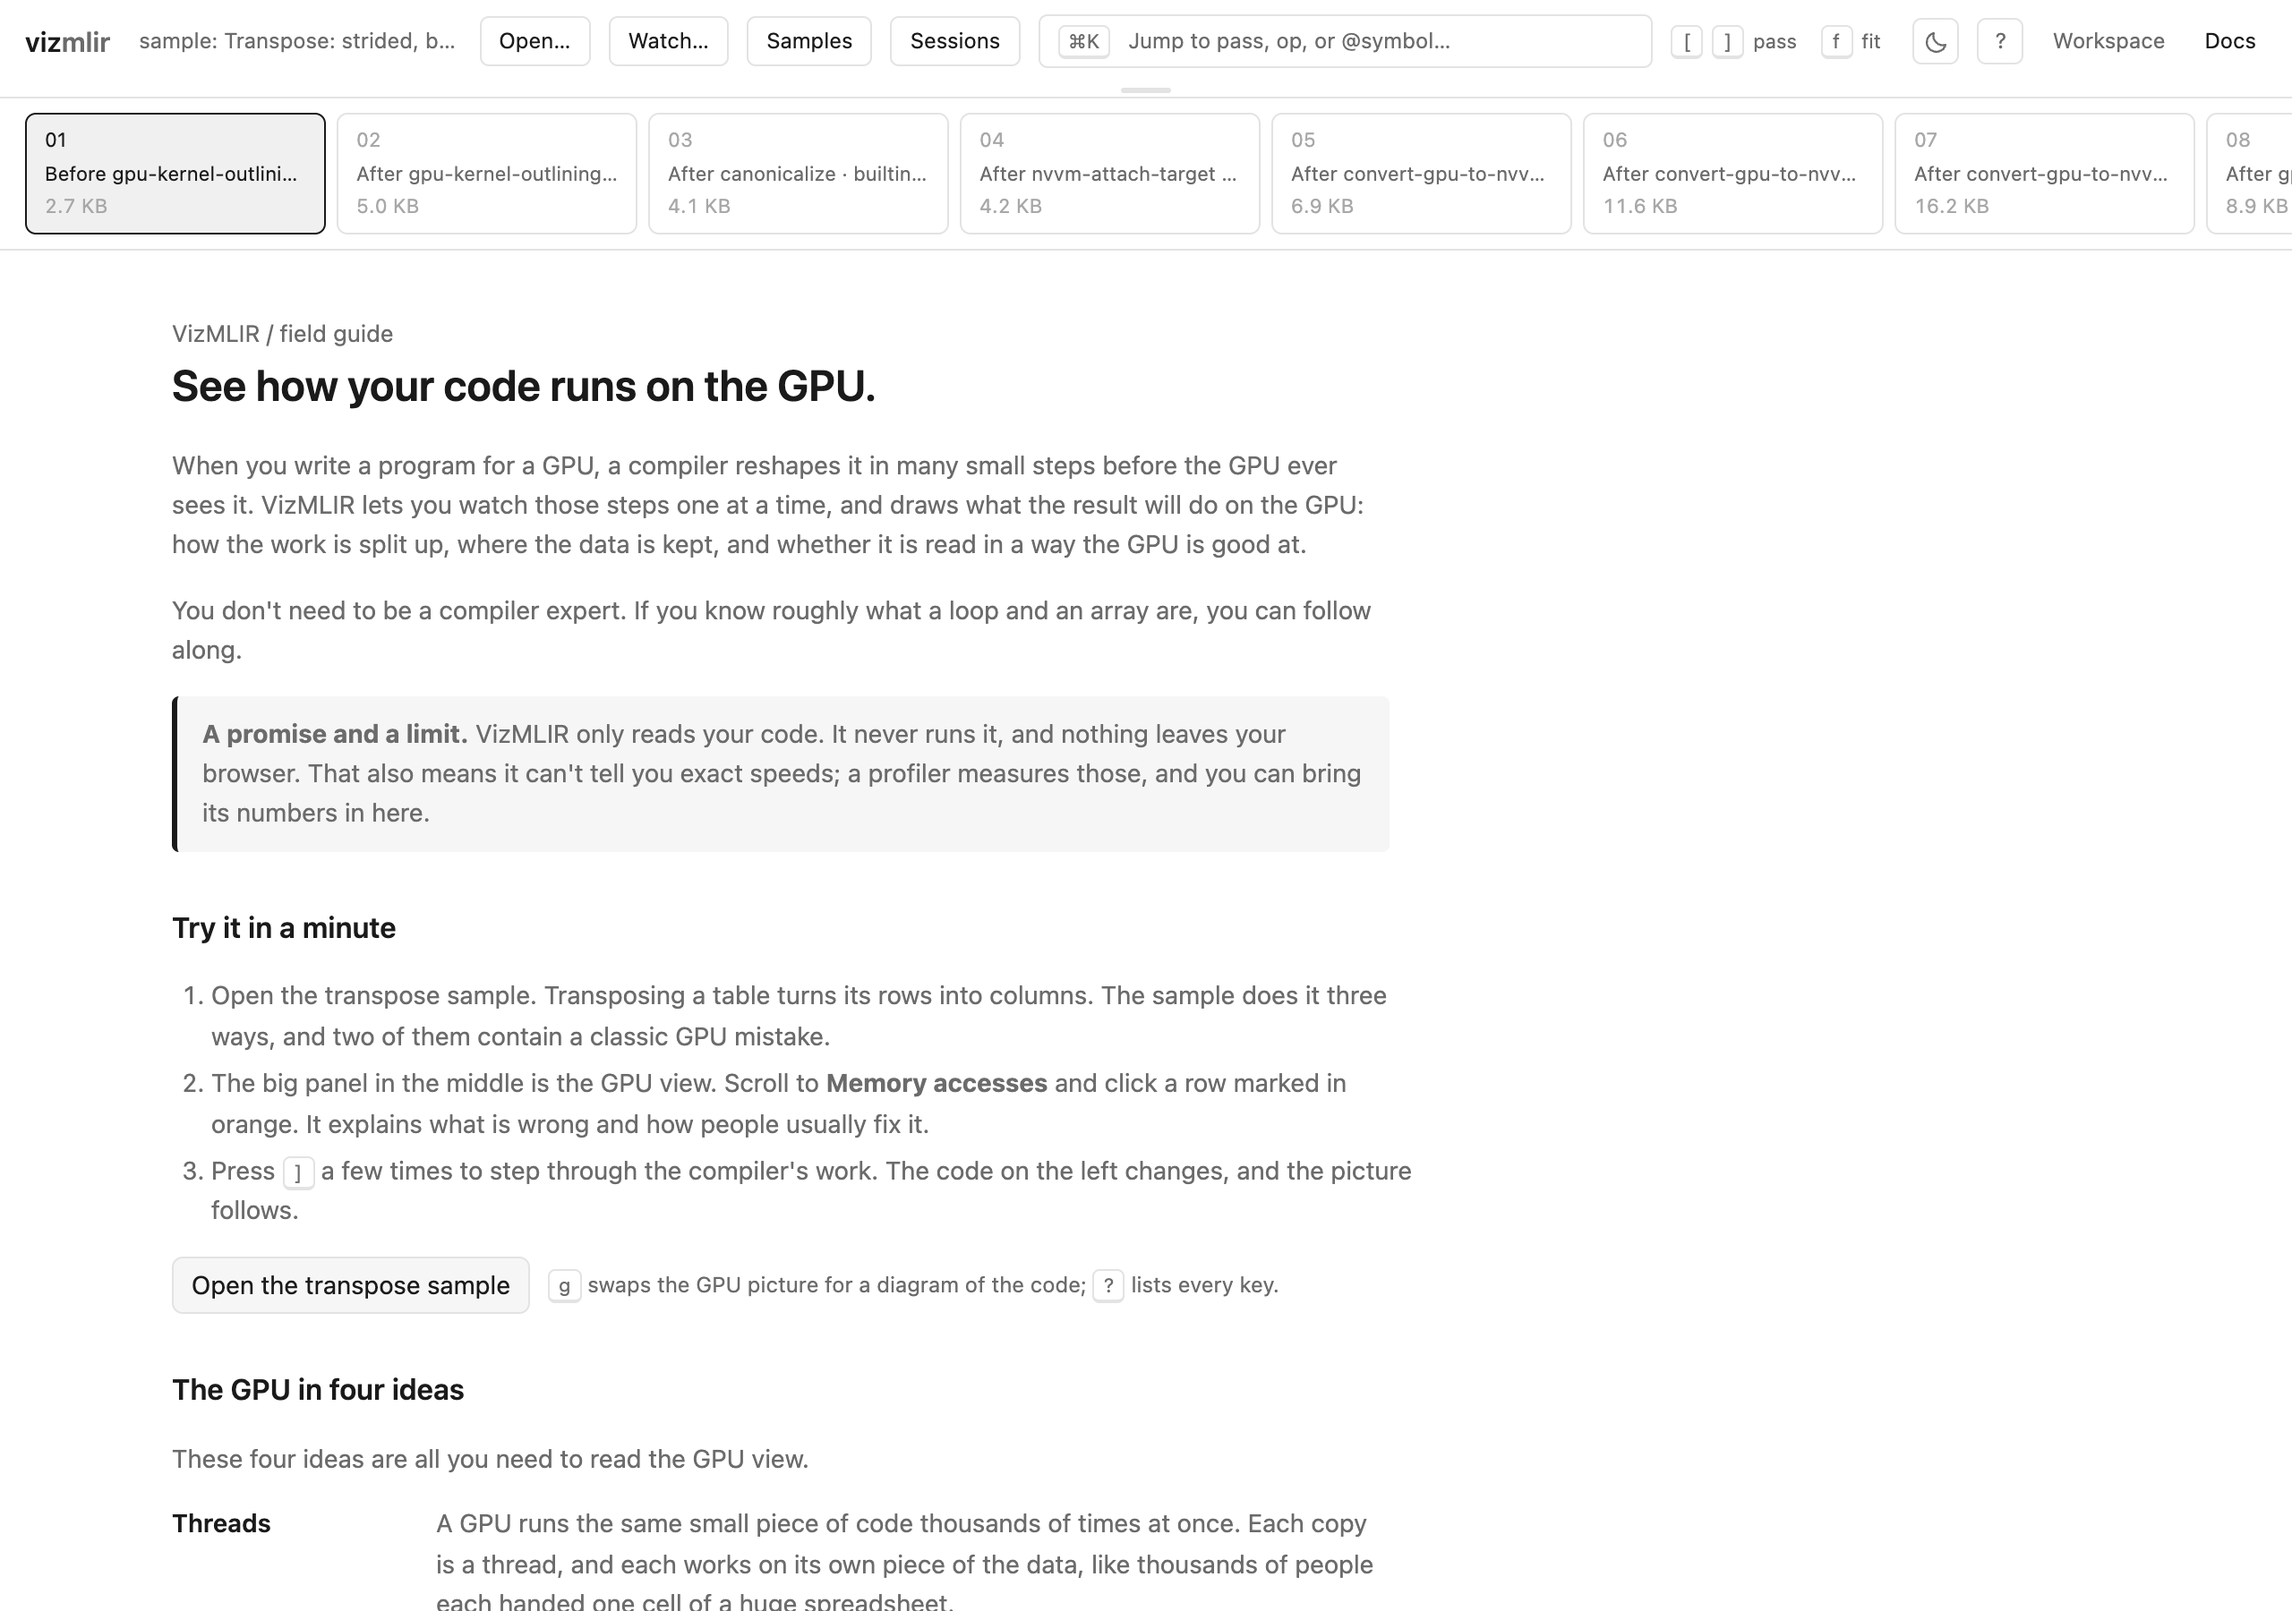
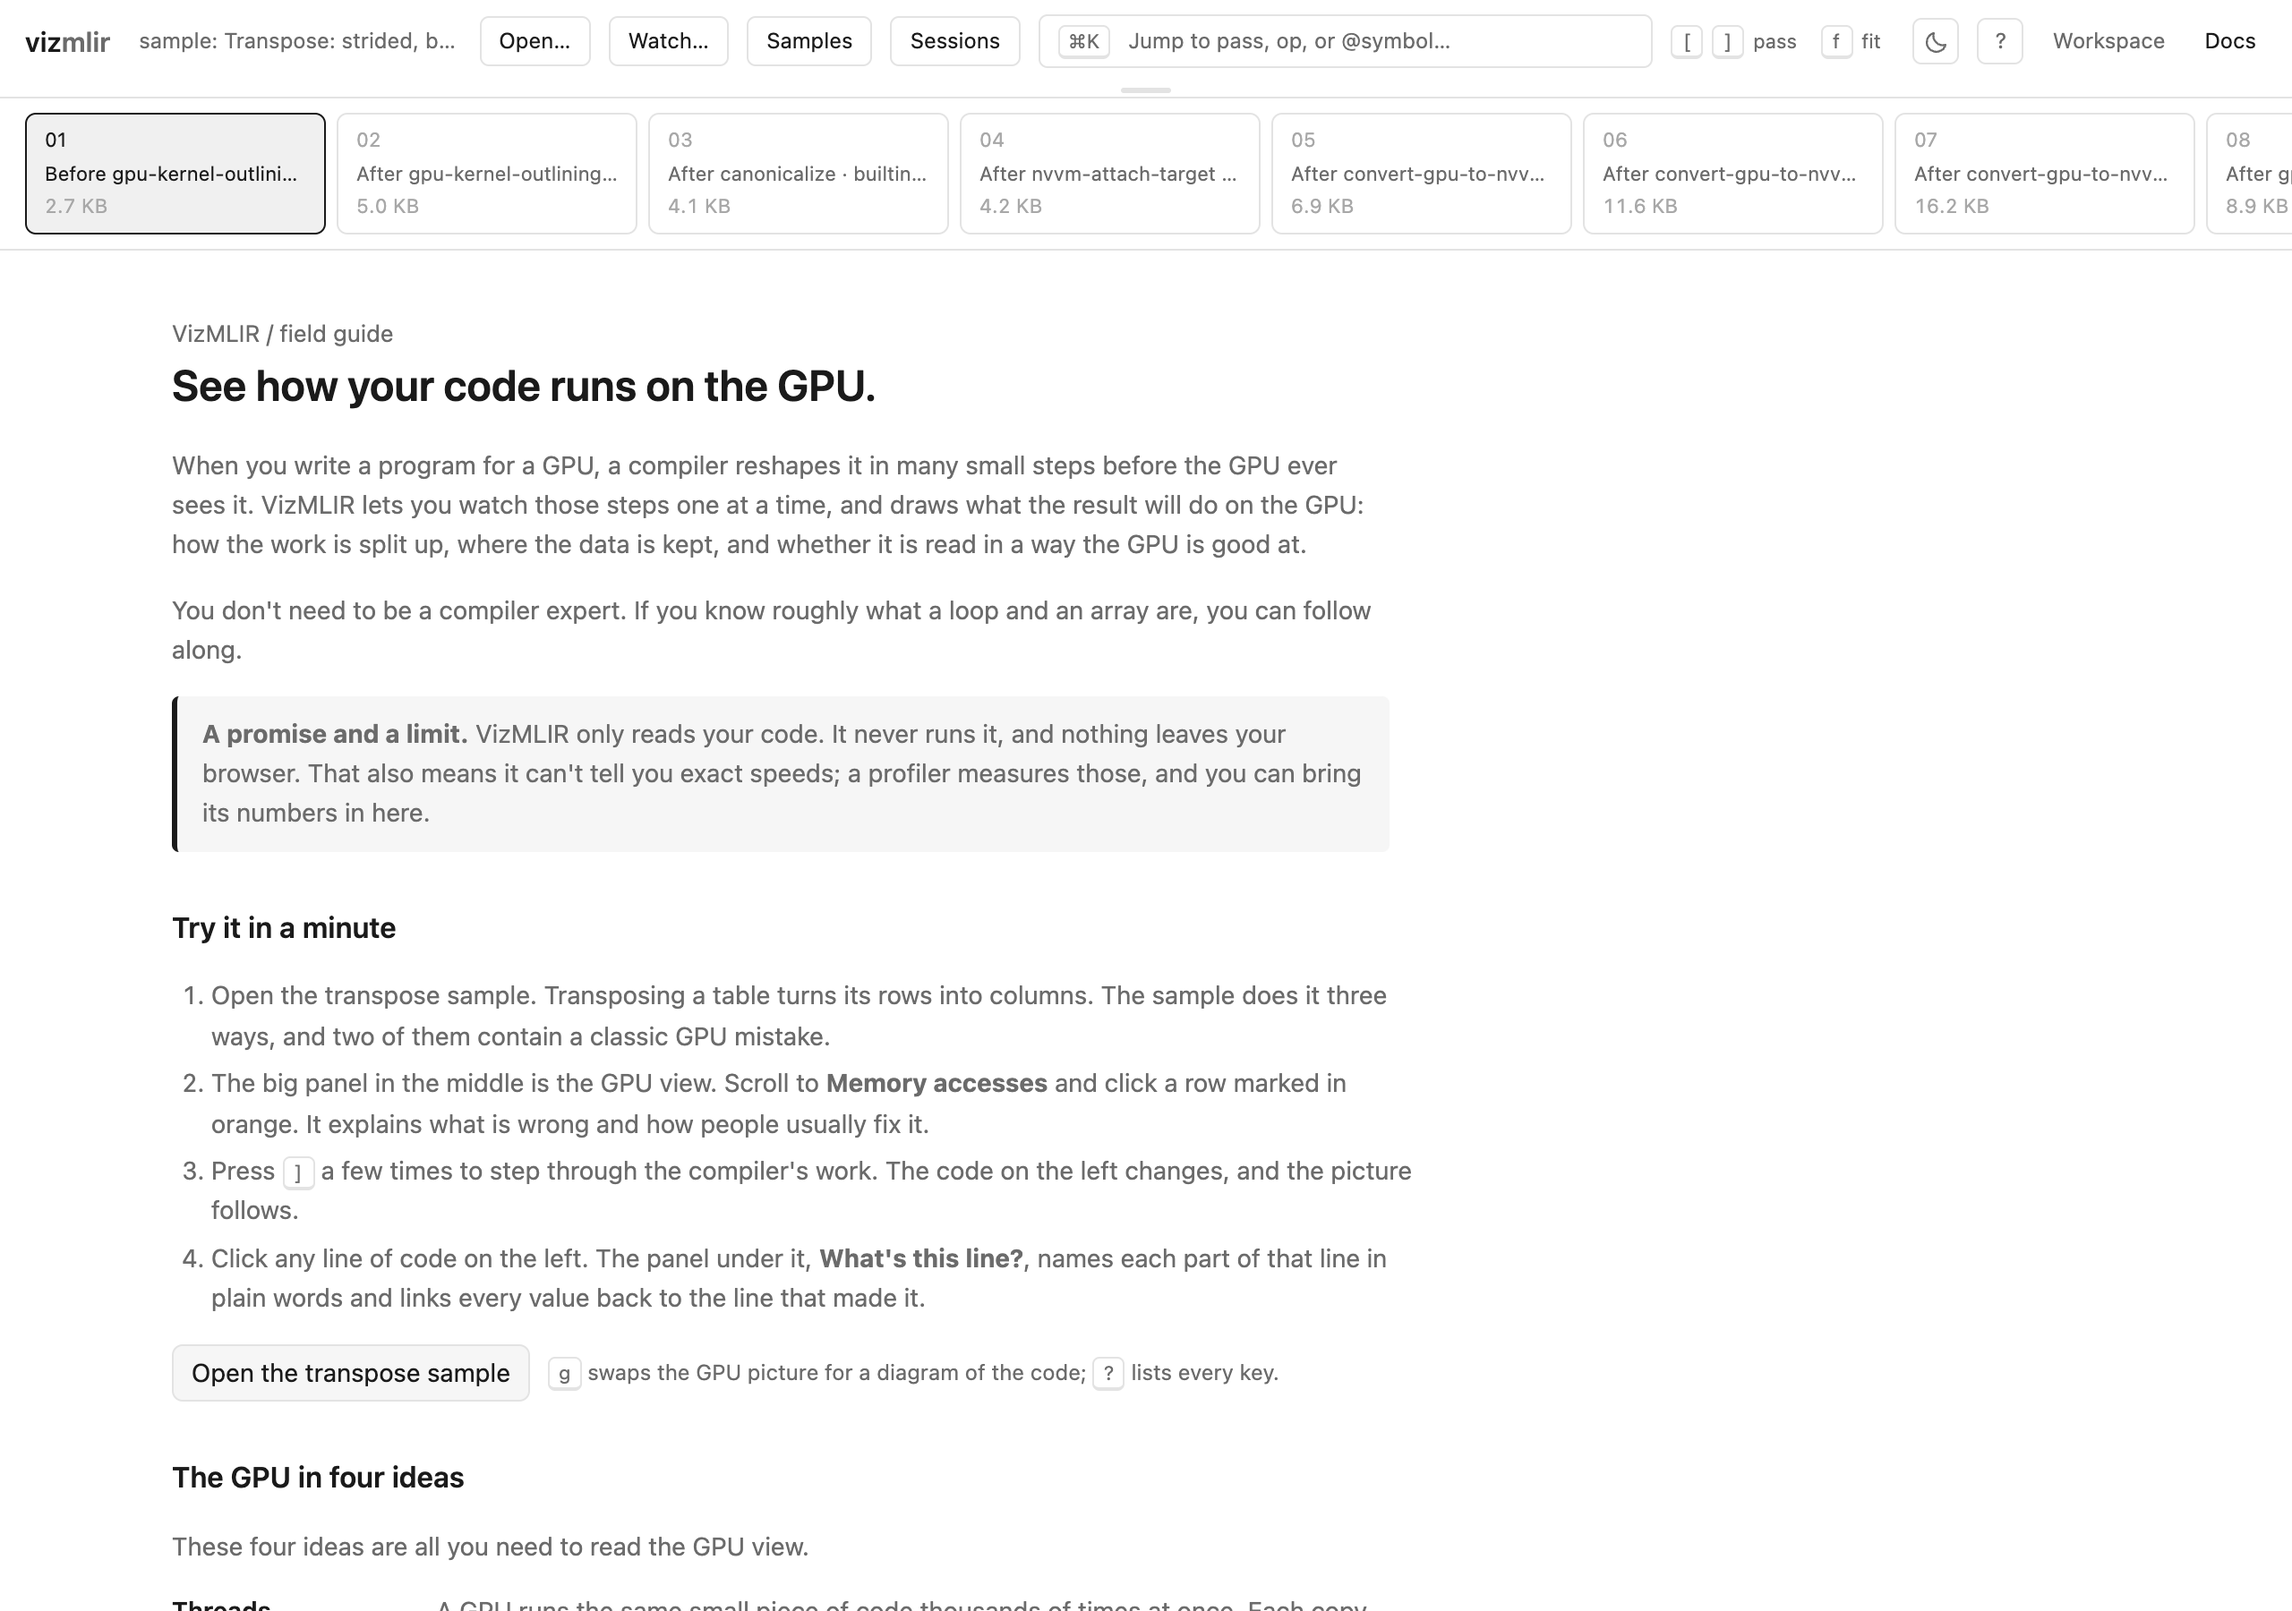
Retake README screenshots with the line explainer
The workspace shot now shows the transpose sample's strided write in the
GPU view with "What's this line?" explaining the store under the code,
and the docs shot shows the four-step tour. The README describes the
workspace shot in a caption.

diff --git a/README.md b/README.md
@@ -8,7 +8,9 @@ When you write a program for a GPU, a compiler reshapes it in many small steps b
 
 **[Try VizMLIR live](https://joepothiboot.github.io/vizmlir/)**: it opens on a small example with two classic GPU mistakes in it.
 
-![VizMLIR showing a transpose kernel whose writes are strided](public/demo/vizmlir-workspace.png)
+![VizMLIR showing a transpose kernel: the GPU view flags a strided write, and "What's this line?" explains the store in plain words](public/demo/vizmlir-workspace.png)
+
+_A transpose whose write is strided. The GPU view shows the 32 threads of a warp landing 1024 items apart; under the code, "What's this line?" takes the store apart in plain words._
 
 ![VizMLIR field guide](public/demo/vizmlir-docs.png)
 
